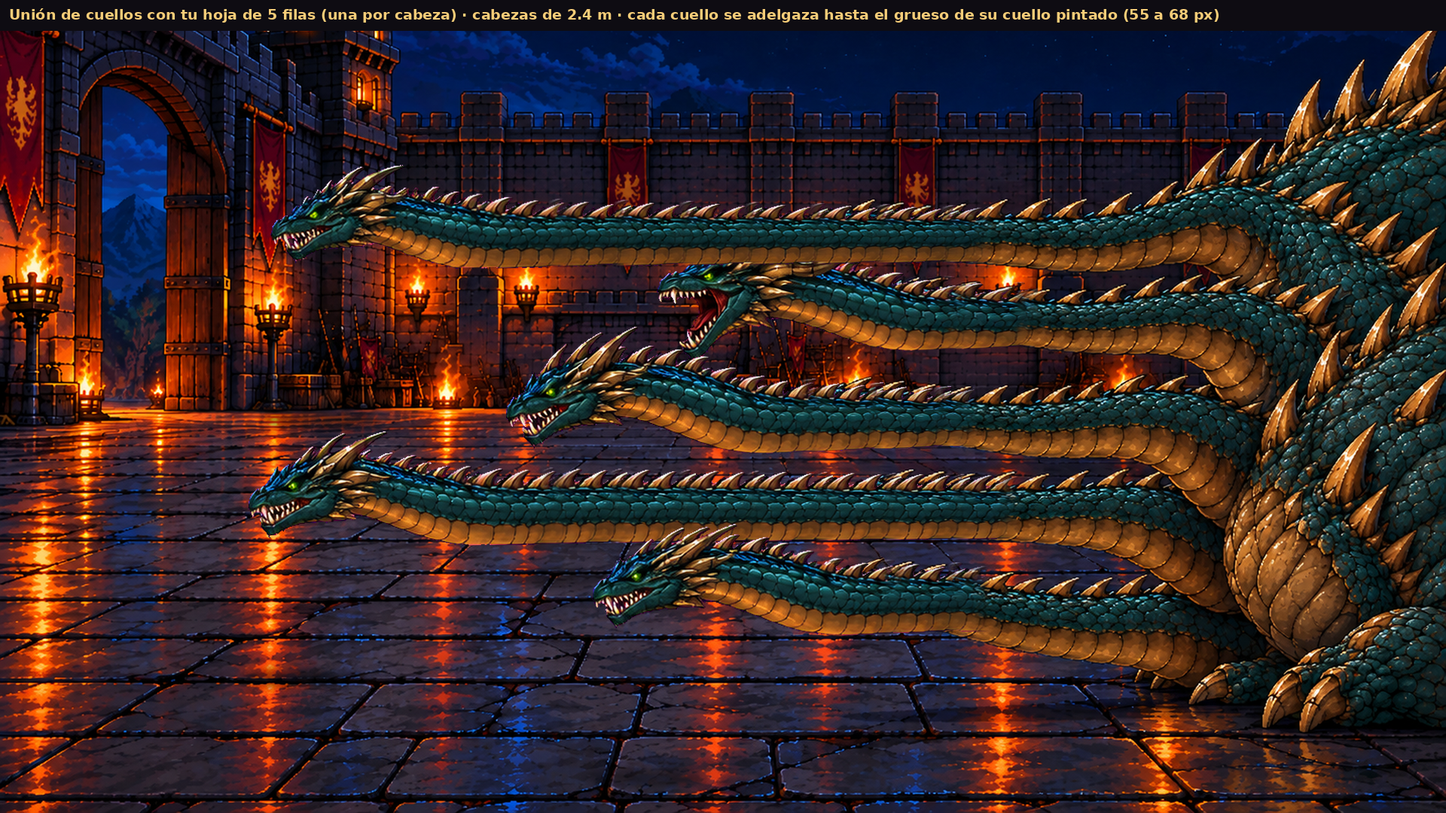
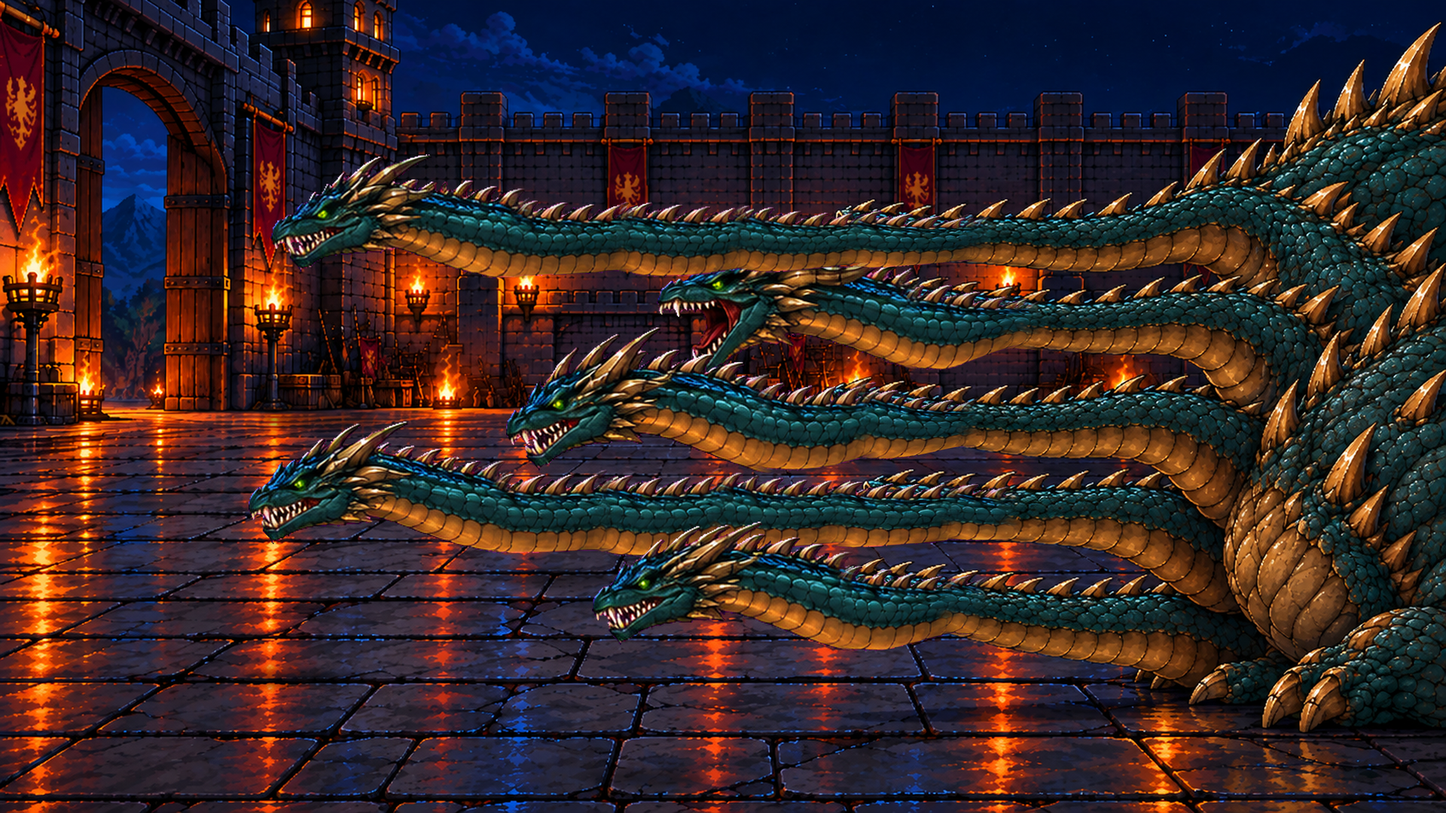
Colossal hydra: one steady neck per head, only the head animates
Claude-Session: https://claude.ai/code/session_01EpW692ymKrP3N4xAnc5Ww8

Changed region(s): [[0.1562, 0.1833, 0.7188, 0.825], [0.0, 0.0, 1.0, 0.0611]]

diff --git a/docs/GAMEPLAY_DESIGN.md b/docs/GAMEPLAY_DESIGN.md
@@ -2128,7 +2128,12 @@ and no body along the back wall; only the body on the right).
   to the same thickness and repeated with soft overlaps, into the painted neck. His backdrop has
   depth, so the back necks are painted thinner (about 55, 61, 59, 65 and 68 px from back to
   front, measured 190 px past each ring): each game neck narrows along its stretch to its painted
-  neck's thickness (the owner, 2026-10-28: the top three were thicker than the body's necks),
+  neck's thickness. The long neck is one steady strip per head, the same in every animation (straight
+  stretches from the end of that head's row in his rest sheet, levelled flat and overlapped softly);
+  an animation frame gives only the head and a short piece of neck, anchored by the neck's cut and
+  faded into the strip, and a lunge just shows more of the strip. (Before, each frame brought its
+  own neck and the long necks bent and shimmered from frame to frame: the owner, *"¿por qué se ven
+  tan raros los cuellos?"*.) The neck (the owner, 2026-10-28: the top three were thicker than the body's necks),
   overlaps it up to there, sits on its middle and fades out over about 34 px, tinted toward his
   darker scales (`docs/mockups/colossal-hydra-neck-joins.png`). His first two
   backdrops and the bite strip v2 (seven heads) stay as references.
